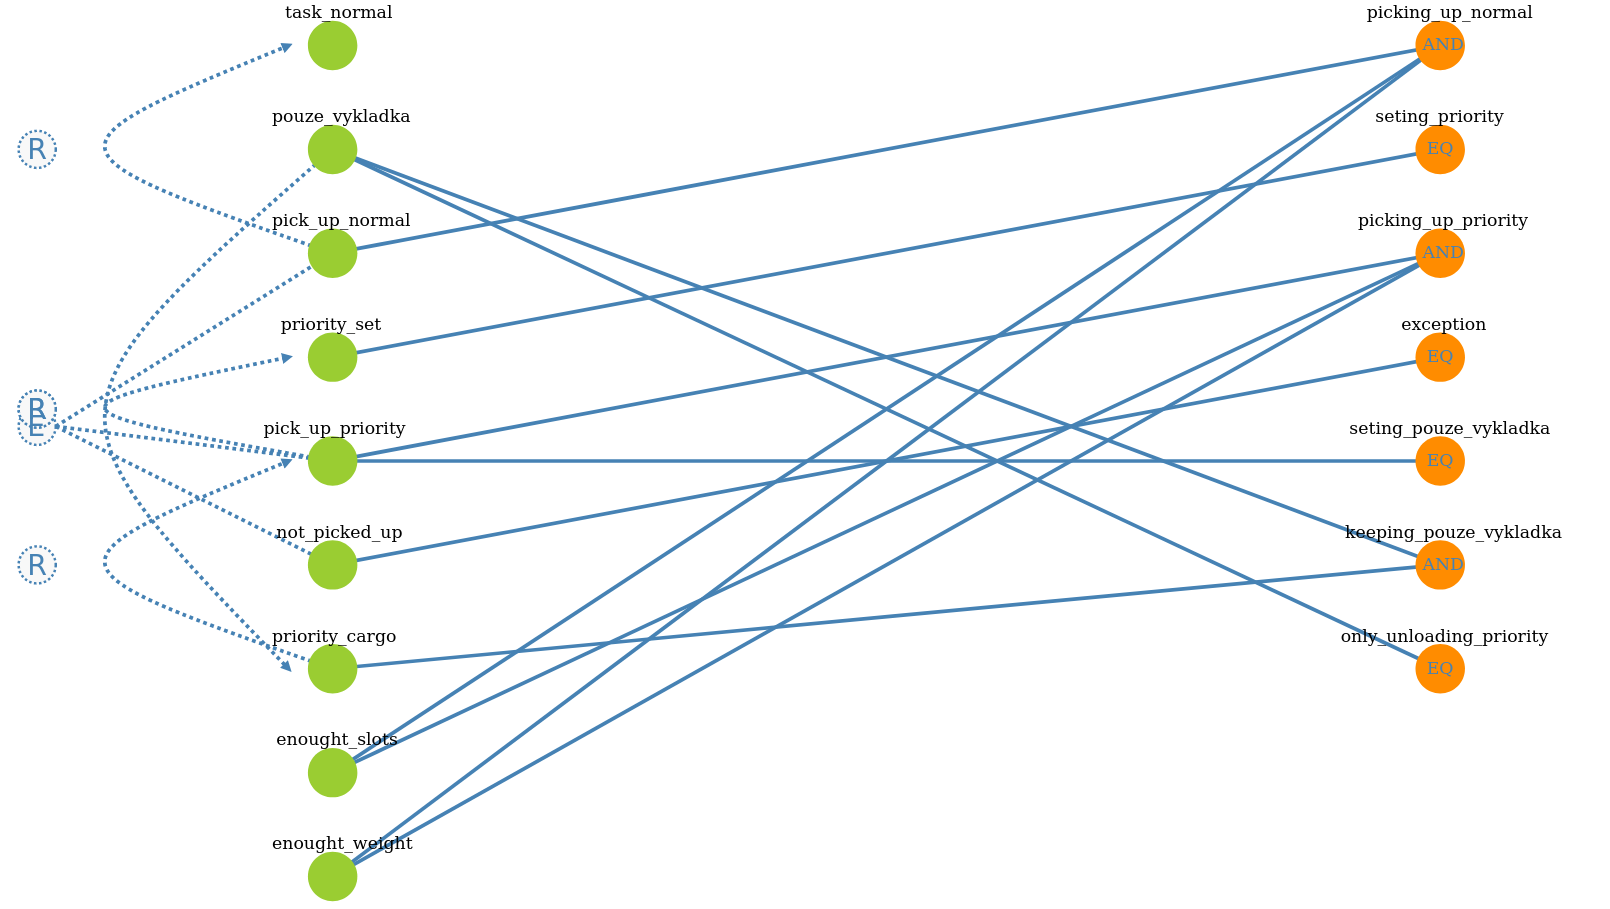
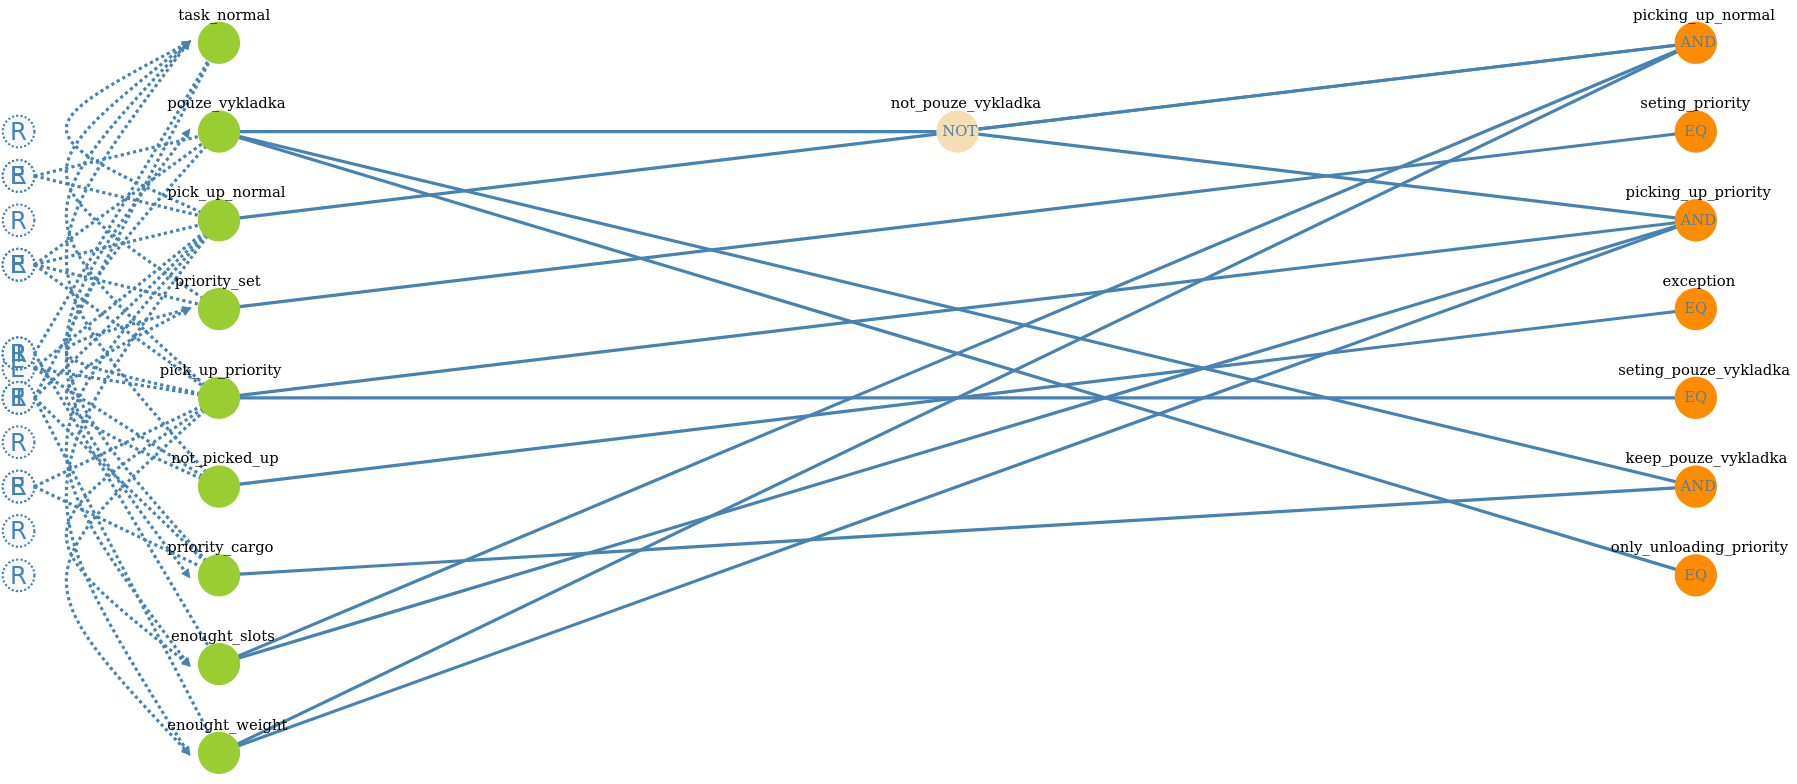
CEG repared

diff --git a/project1/testy.md b/project1/testy.md
@@ -30,24 +30,24 @@ Předpis pro graf se nachází v souboru `ceg.txt`.
 
 Rozhodovací tabulka pokrývá všechny příčiny a všechny důsledky.
 
-| Jméno                       | Popis                                                               |    1    |    2    |    3    |    4    |
-| --------------------------- | ------------------------------------------------------------------- | :-----: | :-----: | :-----: | :-----: |
-| task_normal                 | Zadán požadavek na neprioritní přesun                               |    1    |    1    |    1    |    0    |
-| pouze_vykladka              | Vozík je v režimu pouze_vykladka                                    |    0    |    0    |    0    |    1    |
-| pick_up_normal              | Vyzvednutí neprioritního materiálu (<1 min od zadání požadavku)     |    1    |    0    |    0    |    0    |
-| priority_set                | Nastavení priority přesunu materiálu (1 min od zadání požadavku)    |    0    |    1    |    1    |    1    |
-| pick_up_priority            | Vyzvednutí prioritního materiálu (< 1 min od nastavení priority)    |    0    |    1    |    0    |    1    |
-| not_picked_up               | Nevyzvednutí prioritního materiálu (>= 1 min od nastavení priority) |    0    |    0    |    1    |    0    |
-| priority_cargo              | Vozík má naložený prioritní náklad                                  |    0    |    0    |    0    |    1    |
-| enought_slots               | Vozík má dostatečný počet volných slotů                             |    1    |    1    |    1    |    0    |
-| enought_weight              | Vozík nebude po vyzvednutí nákladu přetížen                         |    1    |    1    |    0    |    0    |
-| **picking_up_normal**       | **Vozík vyzvedá neprioritní náklad**                                | `true`  | `false` | `false` | `false` |
-| **seting_priority**         | **Náklad se stává prioritním**                                      | `false` | `true`  | `true`  | `true`  |
-| **picking_up_priority**     | **Vozík vyzvedá prioritní náklad**                                  | `false` | `true`  | `false` | `false` |
-| **exception**               | **Vyvolání výjimky (prioritní náklad nebyl naložen do 1 min**)      | `false` | `false` | `true`  | `false` |
-| **seting_pouze_vykladka**   | **Nastavení režimu pouze_vykladka**                                 | `false` | `true`  | `false` | `true`  |
-| **keeping_pouze_vykladka**  | **Ponechání režimu pouze_vykladka**                                 | `false` | `false` | `false` | `true`  |
-| **only_unloading_priority** | **Nevyzvedá žádný materiál, pouze vykládá prioritní materiál**      | `false` | `false` | `false` | `true`  |
+| Jméno                       | Popis                                                               |    1    |    2    |    3    |    4    |    5    |    6    |
+| --------------------------- | ------------------------------------------------------------------- | :-----: | :-----: | :-----: | :-----: | :-----: | :-----: |
+| task_normal                 | Zadán požadavek na neprioritní přesun                               |    0    |    1    |    1    |    1    |    1    |    1    |
+| pouze_vykladka              | Vozík je v režimu pouze_vykladka                                    |    0    |    0    |    0    |    0    |    0    |    1    |
+| pick_up_normal              | Vyzvednutí neprioritního materiálu (<1 min od zadání požadavku)     |    0    |    1    |    0    |    0    |    0    |    0    |
+| priority_set                | Nastavení priority přesunu materiálu (1 min od zadání požadavku)    |    0    |    0    |    1    |    1    |    1    |    1    |
+| pick_up_priority            | Vyzvednutí prioritního materiálu (< 1 min od nastavení priority)    |    0    |    0    |    1    |    0    |    0    |    0    |
+| not_picked_up               | Nevyzvednutí prioritního materiálu (>= 1 min od nastavení priority) |    0    |    0    |    0    |    1    |    1    |    1    |
+| priority_cargo              | Vozík má naložený prioritní materiál                                |    0    |    0    |    0    |    0    |    0    |    1    |
+| enought_slots               | Vozík má dostatečný počet volných slotů                             |    1    |    1    |    1    |    0    |    1    |    1    |
+| enought_weight              | Vozík nebude po vyzvednutí materiálu přetížen                       |    1    |    1    |    1    |    1    |    0    |    1    |
+| **picking_up_normal**       | **Vozík vyzvedá neprioritní materiál**                              | `false` | `true`  | `false` | `false` | `false` | `false` |
+| **seting_priority**         | **Materiál se stává prioritním**                                    | `false` | `false` | `true`  | `true`  | `true`  | `true`  |
+| **picking_up_priority**     | **Vozík vyzvedá prioritní materiál**                                | `false` | `false` | `true`  | `false` | `false` | `false` |
+| **exception**               | **Vyvolání výjimky (prioritní náklad nebyl naložen do 1 min**)      | `false` | `false` | `false` | `true`  | `true`  | `true`  |
+| **seting_pouze_vykladka**   | **Nastavení režimu pouze_vykladka**                                 | `false` | `false` | `true`  | `false` | `false` | `false` |
+| **keep_pouze_vykladka**     | **Pokračuje v režimu pouze_vykladka**                               | `false` | `false` | `false` | `false` | `false` | `true`  |
+| **only_unloading_priority** | **Nevyzvedá žádný materiál, pouze vykládá prioritní materiál**      | `false` | `false` | `false` | `false` | `false` | `true`  |
 
 
 ## Identifikace vstupních parametrů
@@ -106,17 +106,17 @@ Popis charakteristik parametrů a omezení pro nástroj [combine.testos.org](htt
 | `cargo_when` | Čas naplánování prvního požadavku |
 | ------------ | --------------------------------- |
 | 1            | 0                                 |
-| 2            | (0, +inf)                         |
+| 2            | > 0                               |
 
 | `cargo_delay` | Časová prodleva mezi následujícími požadavky |
 | ------------- | -------------------------------------------- |
 | 1             | 0                                            |
-| 2             | (0, +inf)                                    |
+| 2             | > 0                                          |
 
 | `count` | Celkový počet požadavků |
 | ------- | ----------------------- |
 | 1       | 1                       |
-| 2       | (1, +inf)               |
+| 2       | > 1                     |
 
 | `heavy` | Označuje, zda suma váh všech nákladů převyšuje nosnost vozíku |
 | ------- | ------------------------------------------------------------- |
@@ -145,27 +145,27 @@ cargo_overload.2 -> heavy.2
 
 Následující tabulka kombinačních testů využívajících všechny dvojic bloků s ohledem na omezení byla vygenerována nástrojem [combine.testos.org/](https://combine.testos.org/). Snímek obrazovky z nástroje combine je uložen jako `combine.png`.
 
-| test ID | slots | cargo_src | cargo_dst | capacity | cargo_overload | cargo_when | cargo_delay | count | heavy   |
-| ------- | ----- | --------- | --------- | -------- | -------------- | ---------- | ----------- | ----- | ------- |
-| 1       | 1     | A         | B         | 150      | `true`         | 0          | 0           | 1     | `true`  |
-| 2       | 1     | B         | A         | 500      | `false`        | > 0        | > 0         | > 1   | `false` |
-| 3       | 1     | C         | D         | 150      | `false`        | 0          | > 0         | > 1   | `true`  |
-| 4       | 1     | D         | C         | 150      | `true`         | > 0        | 0           | > 1   | `true`  |
-| 5       | 2     | A         | C         | 50       | `false`        | 0          | > 0         | > 1   | `false` |
-| 6       | 2     | B         | D         | 50       | `true`         | > 0        | 0           | 1     | `true`  |
-| 7       | 2     | C         | A         | 50       | `true`         | 0          | 0           | 1     | `true`  |
-| 8       | 2     | D         | B         | 500      | `false`        | 0          | 0           | 1     | `false` |
-| 9       | 3     | A         | D         | 50       | `true`         | > 0        | > 0         | > 1   | `true`  |
-| 10      | 3     | B         | C         | 150      | `false`        | 0          | 0           | 1     | `false` |
-| 11      | 3     | C         | B         | 50       | `true`         | > 0        | > 0         | > 1   | `true`  |
-| 12      | 3     | D         | A         | 50       | `true`         | 0          | > 0         | > 1   | `true`  |
-| 13      | 4     | A         | B         | 50       | `true`         | 0          | 0           | 1     | `true`  |
-| 14      | 4     | B         | A         | 150      | `false`        | > 0        | > 0         | > 1   | `false` |
-| 15      | 4     | C         | D         | 50       | `true`         | 0          | 0           | 1     | `true`  |
-| 16      | 4     | D         | C         | 50       | `true`         | 0          | 0           | 1     | `true`  |
-| 17      | 1     | A         | C         | 500      | `true`         | 0          | 0           | 1     | `true`  |
-| 18      | 1     | A         | D         | 500      | `true`         | 0          | 0           | 1     | `true`  |
-| 19      | 1     | C         | A         | 500      | `true`         | 0          | 0           | 1     | `true`  |
-| 20      | 2     | A         | A         | 150      | `true`         | 0          | 0           | 1     | `true`  |
-| 21      | 1     | C         | D         | 50       | `false`        | 0          | 0           | 1     | `false` |
+| test ID | slots | cargo_src | cargo_dst | capacity | cargo_overload | cargo_when | cargo_delay | count |  heavy  |
+| ------: | :---: | :-------: | :-------: | :------: | :------------: | :--------: | :---------: | :---: | :-----: |
+|       1 |   1   |     A     |     B     |   150    |     `true`     |     0      |      0      |   1   | `true`  |
+|       2 |   1   |     B     |     A     |   500    |    `false`     |    > 0     |     > 0     |  > 1  | `false` |
+|       3 |   1   |     C     |     D     |   150    |    `false`     |     0      |     > 0     |  > 1  | `true`  |
+|       4 |   1   |     D     |     C     |   150    |     `true`     |    > 0     |      0      |  > 1  | `true`  |
+|       5 |   2   |     A     |     C     |    50    |    `false`     |     0      |     > 0     |  > 1  | `false` |
+|       6 |   2   |     B     |     D     |    50    |     `true`     |    > 0     |      0      |   1   | `true`  |
+|       7 |   2   |     C     |     A     |    50    |     `true`     |     0      |      0      |   1   | `true`  |
+|       8 |   2   |     D     |     B     |   500    |    `false`     |     0      |      0      |   1   | `false` |
+|       9 |   3   |     A     |     D     |    50    |     `true`     |    > 0     |     > 0     |  > 1  | `true`  |
+|      10 |   3   |     B     |     C     |   150    |    `false`     |     0      |      0      |   1   | `false` |
+|      11 |   3   |     C     |     B     |    50    |     `true`     |    > 0     |     > 0     |  > 1  | `true`  |
+|      12 |   3   |     D     |     A     |    50    |     `true`     |     0      |     > 0     |  > 1  | `true`  |
+|      13 |   4   |     A     |     B     |    50    |     `true`     |     0      |      0      |   1   | `true`  |
+|      14 |   4   |     B     |     A     |   150    |    `false`     |    > 0     |     > 0     |  > 1  | `false` |
+|      15 |   4   |     C     |     D     |    50    |     `true`     |     0      |      0      |   1   | `true`  |
+|      16 |   4   |     D     |     C     |    50    |     `true`     |     0      |      0      |   1   | `true`  |
+|      17 |   1   |     A     |     C     |   500    |     `true`     |     0      |      0      |   1   | `true`  |
+|      18 |   1   |     A     |     D     |   500    |     `true`     |     0      |      0      |   1   | `true`  |
+|      19 |   1   |     C     |     A     |   500    |     `true`     |     0      |      0      |   1   | `true`  |
+|      20 |   2   |     A     |     A     |   150    |     `true`     |     0      |      0      |   1   | `true`  |
+|      21 |   1   |     C     |     D     |    50    |    `false`     |     0      |      0      |   1   | `false` |
 
